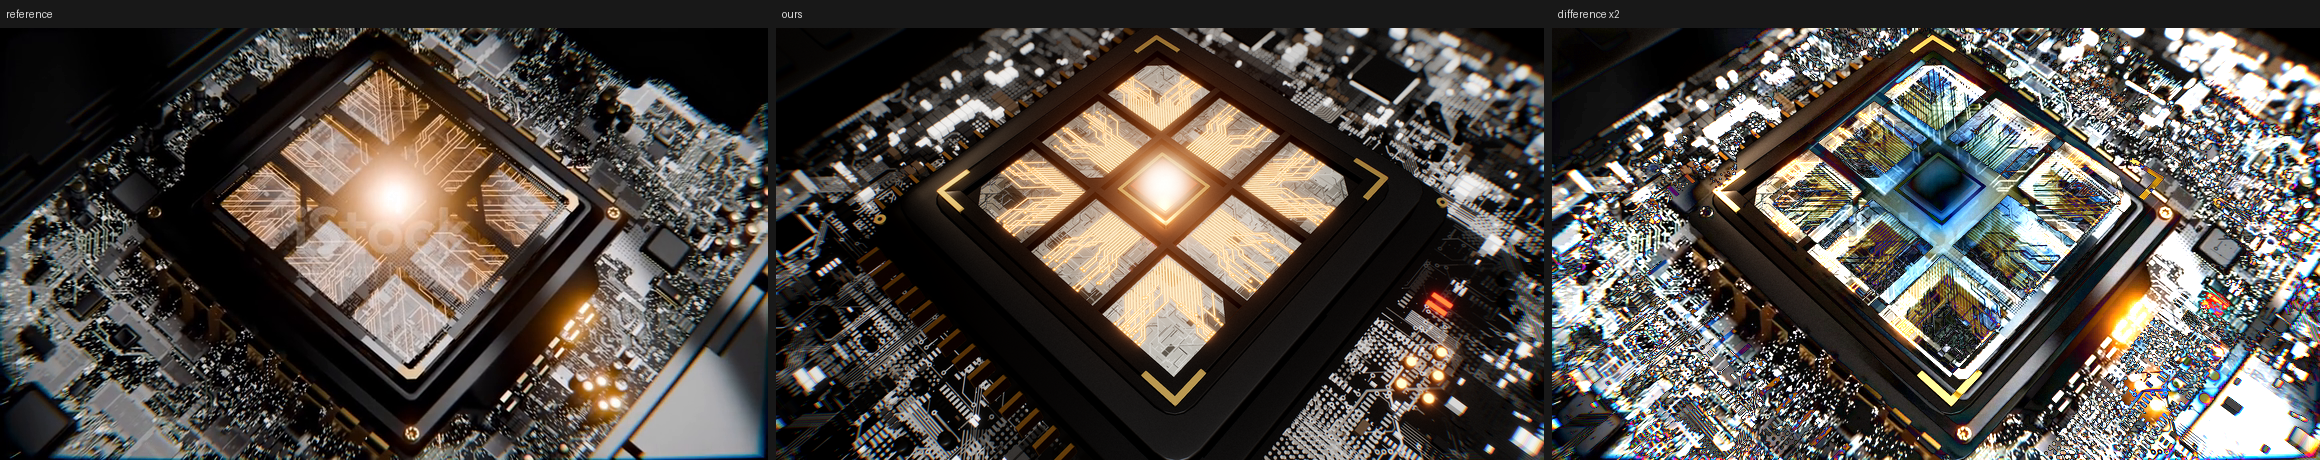
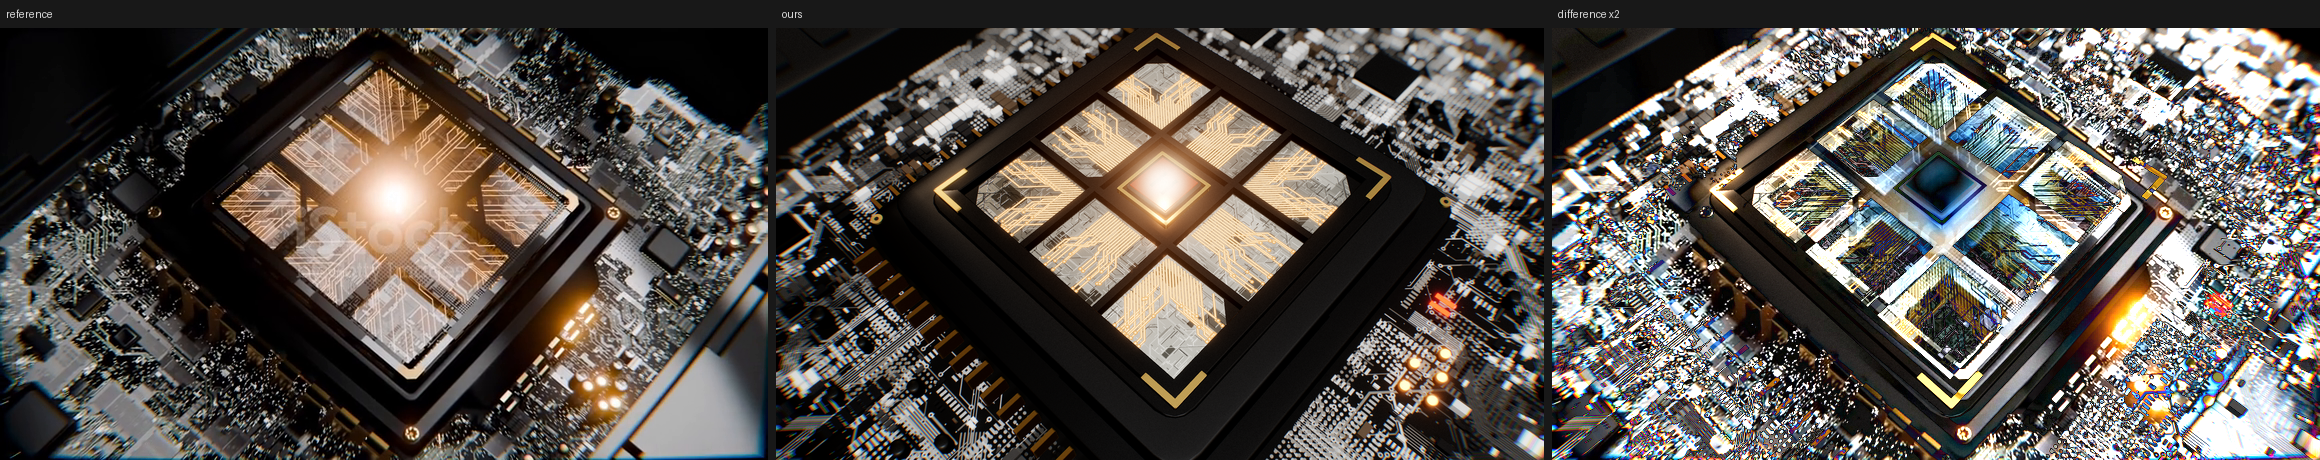
chip-ignite: soft flare halo, warmer lit state, exposure curve, framing
Claude-Session: https://claude.ai/code/session_016jjL2AH2HD4rFCQ3eAYRxu

Changed region(s): [[0.3103, 0.0609, 1.0, 1.0]]

diff --git a/chip-ignite/src/scene/world.ts b/chip-ignite/src/scene/world.ts
@@ -311,9 +311,9 @@ const makeFlareMaterial = () =>
       void main() {
         float r = length(vUv);
         float edge = 1.0 - smoothstep(0.6, 1.0, r);
-        float core = exp(-r * r * 130.0) * uCoreMix;
-        float mid = exp(-r * r * 26.0) * 0.2 * (0.35 + 0.65 * uCoreMix);
-        float halo = 0.06 / (1.0 + r * r * 10.0);
+        float core = exp(-r * r * 70.0) * uCoreMix;
+        float mid = exp(-r * r * 12.0) * 0.32 * (0.35 + 0.65 * uCoreMix);
+        float halo = 0.1 / (1.0 + r * r * 8.0);
         vec3 c = uCore * core + mix(uHalo, uCore, 0.3) * mid + uHalo * halo;
         gl_FragColor = vec4(c * uIntensity * edge, 1.0);
       }
@@ -464,7 +464,7 @@ export const createWorld = (gl: THREE.WebGLRenderer, move: CameraMove): World =>
         bumpScale: 0.8,
         metalness: 1,
         roughness: rng.range(0.18, 0.3),
-        envMapIntensity: 2.0,
+        envMapIntensity: 1.6,
       });
       tileMats.push(m);
       const mesh = new THREE.Mesh(g, m);
@@ -796,7 +796,7 @@ export const createWorld = (gl: THREE.WebGLRenderer, move: CameraMove): World =>
     chipTopMat.color.setScalar(0.85 * (1 - 0.95 * glow) + 0.01);
     flareMat.uniforms.uIntensity.value =
       flareAmt * ML.flareIntensity * (0.8 + 0.2 * build) + glow * (1 - burst) * 0.8;
-    flareMat.uniforms.uCoreMix.value = burst * (0.3 + 0.7 * build);
+    flareMat.uniforms.uCoreMix.value = burst * (0.6 + 0.4 * build);
     // the flare is a camera-facing card whose size is tied to the frame height
     const flarePos = chip.position;
     const dCam = camera.position.distanceTo(flarePos);

diff --git a/chip-ignite/src/config.ts b/chip-ignite/src/config.ts
@@ -16,21 +16,21 @@ export const DURATION_IN_FRAMES = 408;
 /* ---- colours ------------------------------------------------------------- */
 export const PALETTE = {
   /** glowing lines after the chip ignites */
-  glow: "#ffac64",
-  glowHot: "#ffdca8",
+  glow: "#ffa050",
+  glowHot: "#ffd0a0",
   /** the small chip when it starts to glow */
   chipGlow: "#ff3a00",
   /** the flare in the centre */
   flareCore: "#fff1dc",
   flareHalo: "#ffb070",
   /** light the ignited chip throws onto the package */
-  ignitionLight: "#ffb478",
+  ignitionLight: "#ffa050",
   gold: "#a08652",
   bronze: "#6a5228",
   silver: "#dcdcda",
   led: "#ff9a3a",
   /** pale gold of the lines that spread over the board */
-  boardGlow: "#ffc070",
+  boardGlow: "#ffb264",
   ledRed: "#ff2a12",
 };
 
@@ -78,8 +78,8 @@ export interface CameraMove {
 /** Version 1 - the reference move: slow orbit while craning up and back. */
 export const CAMERA_V1: CameraMove = {
   azimuth: [[0, 33], [13.6, 49]],
-  elevation: [[0, 38], [6.8, 53], [13.6, 72]],
-  distance: [[0, 29], [6.8, 25.5], [13.6, 27.5]],
+  elevation: [[0, 38], [6.8, 58], [13.6, 72]],
+  distance: [[0, 29], [6.8, 28.5], [13.6, 34]],
   roll: [[0, 0], [13.6, 0]],
   targetX: [[0, -0.5], [6.8, 1.6], [13.6, 0.4]],
   targetY: [[0, 1.0], [6.8, -2.0], [13.6, -0.4]],

diff --git a/chip-ignite/src/look.ts b/chip-ignite/src/look.ts
@@ -21,7 +21,7 @@ export const LOOK: Look = {
     haloLevels: 8,
   },
   dof: { enabled: true, bokehScale: 5.0, focusRange: 19 },
-  fringe: { amount: 0.012, power: 1.6 },
+  fringe: { amount: 0.018, power: 1.6 },
   vignette: { strength: 0.3, inner: 0.34, outer: 1.35, center: [0.64, 0.4], aspect: 1 },
   grade: {
     contrast: 1.1,
@@ -41,7 +41,7 @@ export const LIGHTS = {
   fill: { color: "#ffe2c4", intensity: 0.3, pos: [-30, 10, 30] as [number, number, number] },
   envIntensity: 1.0,
   /** peak strength of the orange light the ignited chip throws */
-  ignition: 30,
+  ignition: 44,
 };
 
 export const ENV_AMBIENT = "#0a0a0a";
@@ -60,7 +60,7 @@ export const ENV_PANELS: EnvPanel[] = [
 export const MATERIAL_LOOK = {
   /** brightness multiplier of the silver copper pattern on the board */
   boardSilver: "#a9a9a7",
-  tileSilver: "#f2f2ee",
+  tileSilver: "#cfcfcb",
   /** HDR brightness of the glowing lines (1 = white point before bloom) */
   lineIntensity: 1.6,
   boardLineIntensity: 1.2,

diff --git a/qc/temporal.py b/qc/temporal.py
@@ -1,0 +1,65 @@
+#!/usr/bin/env python3
+"""temporal.py - do light, haze and grain stay steady from frame to frame?
+
+Usage: python3 qc/temporal.py video.mp4 [--skip 60-95] [--json out.json]
+
+Per frame (at 480x270): median and p95 luminance (light), p95-p5 contrast of
+the outer frame (haze), and the high-pass noise level of the flattest lit
+blocks (grain). Reports the largest frame-to-frame step of each, ignoring the
+frames given with --skip (an intended flash or whip).
+"""
+import argparse
+import json
+import subprocess
+
+import numpy as np
+
+ap = argparse.ArgumentParser()
+ap.add_argument("video")
+ap.add_argument("--skip")
+ap.add_argument("--json")
+a = ap.parse_args()
+W, H = 480, 270
+raw = subprocess.run(["ffmpeg", "-v", "error", "-i", a.video, "-vf", f"scale={W}:{H}:flags=area",
+                      "-pix_fmt", "gray", "-f", "rawvideo", "-"], capture_output=True).stdout
+fr = np.frombuffer(raw, dtype=np.uint8).reshape(-1, H, W).astype(np.float32) / 255
+n = len(fr)
+p50 = np.percentile(fr.reshape(n, -1), 50, axis=1)
+p95 = np.percentile(fr.reshape(n, -1), 95, axis=1)
+edge = np.ones((H, W), bool)
+edge[H // 4:3 * H // 4, W // 4:3 * W // 4] = False
+haze = np.array([np.percentile(f[edge], 95) - np.percentile(f[edge], 5) for f in fr])
+# grain: full-resolution luma of a few frames is costly, so use the 480x270
+# high-pass (4-neighbour) in the 10% flattest lit 16x16 blocks of each frame
+grain = []
+for f in fr:
+    hp = f[1:-1, 1:-1] - 0.25 * (f[:-2, 1:-1] + f[2:, 1:-1] + f[1:-1, :-2] + f[1:-1, 2:])
+    vals = []
+    for y in range(0, H - 18, 16):
+        for x in range(0, W - 18, 16):
+            b = f[y + 1:y + 17, x + 1:x + 17]
+            if 0.02 < b.mean() < 0.9:
+                vals.append(hp[y:y + 16, x:x + 16].std())
+    vals.sort()
+    grain.append(np.mean(vals[:max(1, len(vals) // 10)]) * 255 if vals else 0.0)
+grain = np.array(grain)
+keep = np.ones(n - 1, bool)
+if a.skip:
+    lo, hi = (int(v) for v in a.skip.split("-"))
+    keep[max(0, lo - 1):hi] = False
+
+
+def step(x):
+    d = np.abs(np.diff(x))
+    d[~keep] = 0
+    return float(d.max()), int(d.argmax() + 1)
+
+
+res = {"file": a.video, "frames": n, "skipped": a.skip}
+for name, x in (("median_luminance", p50), ("p95_luminance", p95), ("edge_contrast_haze", haze), ("grain_level_8bit", grain)):
+    s, at = step(x)
+    res[name] = {"min": round(float(x.min()), 4), "max": round(float(x.max()), 4),
+                 "max_step": round(s, 4), "at_frame": at}
+    print(f"{name:22} range {x.min():.4f}-{x.max():.4f}   largest frame-to-frame step {s:.4f} at frame {at}")
+if a.json:
+    json.dump(res, open(a.json, "w"), indent=1)

diff --git a/qc/report-parts/5-subagents.md b/qc/report-parts/5-subagents.md
@@ -1,0 +1,47 @@
+## 6. Independent reviews and what was fixed
+
+Every review was done by a fresh sub-agent that saw only the image pairs or frame sets named in the brief, with the brief's instruction text.
+
+### Look checks on the three look-dev stills (step 4A-5)
+
+**ai-chip-reveal**
+
+| Round | Main notes | Fixed |
+|---|---|---|
+| 1 | Attempt too sharp, no depth of field; pure blacks with no haze; glowing lines hard, uniform "emissive strips" with tight halos; capacitors flat white discs; orange too saturated and yellow; wide shot board too bright with clipped white blocks; no grain | Depth of field added, stronger at the angled start; two-layer bloom (tight core, wide halo) with configurable sizes; brightness variation along each line; dome-topped metal cans; palette shifted to deeper amber; white parts and key light held back in the wide shot; film grain pass |
+| 2 | Capacitors and socket frame matte black with only a rim crescent, no reflections; traces still too bright and uniform; "AI" white-hot; slot bars too bright; white blocks dominate the wide shot; background flatter | Found and fixed a real defect: the lathe profiles of the cans and pin rings were inside-out, so they shaded black. Trace and letter intensity lowered; separate non-reflective material for the slot bars; backdrop pool retuned; wide-shot exposure and white level lowered |
+| 3 | Reference has orange light bouncing onto black plastic and pooling between the slots; pin grid too bright and yellow so the "AI" does not dominate; needs slightly lifted warm shadows; whites harder-edged than the reference | Coloured spill lights raised and extra pool lights added over the lower board; pins darkened to copper on a brown chip face; extruded metal letters; bloom core widened. (Remaining: the reference's milky haze in the close-up is stronger than ours.) |
+
+**chip-ignite**
+
+| Round | Main notes | Fixed |
+|---|---|---|
+| 1 | Attempt warmer overall (cream traces, saturated copper) where the reference is neutral-cool silver; light flat and frontal instead of a hard key from the upper right; tiles too contrasty; glow at the centre pink with a hard edge; gold accents too orange; hard black void instead of a soft vignette | Light, environment and board texture made neutral; key moved and hardened; tile texture softened; chip glow recoloured deep orange-red; gold and bronze muted; vignette recentred and softened; flare rebuilt with a small core and wide halo |
+| 2 | Tiles too dim and flat (reference bright silver with raking gradient); board too dark with no mid-tones; fringing only at the corners; glow too saturated at the peak, veil missing; LEDs too small and orange | Tiles brightened and made more reflective; board mid-tones lifted; fringe widened; glow and halo made paler and wider; LEDs enlarged; grain raised |
+| 3 | Board whites clip to blocky white; blacks on the housing milky; attempt now softer than the reference with too much fringe; bloom too large and cream; LEDs over-bloomed | Board highlight level lowered; glossier, deeper blacks on the package; depth of field and fringe reduced; bloom tightened and made more orange; LEDs reduced. (Remaining: the reference's fine "glitter" speculars are finer than our texture.) |
+
+### Visual match of the videos (step 8B)
+
+**01-V1-ai-chip-reveal**
+
+| Round | Main notes | Fixed |
+|---|---|---|
+| 1 | The reference board is still assembling at 5.0 s (parts floating off the left edge and above) and keeps changing until the end, the attempt is a finished static rectangle; socket should be grey metal; pins flat orange; heavy grainy bokeh discs in the opening; board reads flat and top-down | Added the assembly beat: 15 groups of parts lift off during the spin and settle on their own schedules; board tilt in the wide shot; grey metal socket frame; extruded letters; lower-half layout changed to long parallel slots with a heat sink; cans clustered. Also found and fixed that shadow maps went stale after the first frame |
+| 2 | Wide shot evenly lit with every trace the same orange, reference has only some traces glowing; assembly finishes too early; board too tilted; pin field should be dense rings with a small trace area; opening too tight and too blurred; chip too large and legible in the wide shot | Per-line brightness selection in the wide shot (a few bright, most dim); assembly windows moved later and offsets enlarged; tilt reduced; pin ring widened; opening reframed with less blur; letters dimmed and the chip face lit as one copper square in the wide shot |
+| 3 | Reference dims towards the end, attempt stays bright; board a little large at 5.0 s; socket frame should read as metal; pins large and saturated; whites pure and bright | End fade-down of traces and pool lights; camera further back from 3.7 s; frame lightened then balanced against the look measures; pins smaller and darker; white level lowered |
+| final check | Size, position, timing and empty space "closely matched" (board 36% of frame width at 5.0 s and 29% at 9.8 s in both). Still different: socket frame reads matte black rather than brushed silver; deeper blacks, higher contrast and cleaner edges than the hazy reference; traces thicker, brighter and more saturated, covering more of the board; pin field a more uniform orange; board silhouette tidier at 5.0 s; "AI" legible in the wide shot; an orange bokeh orb right of the chip at 0.3 s that the reference lacks. Verdict: "reads as the same piece of motion design in composition and timing, but as a cleaner, more saturated, less photoreal rendition" | no further changes (three rounds used) |
+
+**03-V1-chip-ignite**
+
+| Round | Main notes | Fixed |
+|---|---|---|
+| 1 | Camera move far weaker than the reference (which goes from low oblique to near top-down, the chip filling the frame height); final frame lacks energy (reference tiles nearly blown out, long gold traces across the board); large empty matte panels; package a thin flat slab without the gold fin rows; flat centre emblem; tiles dim with coarse patterns; board made of large blocky rectangles | Camera path rebuilt (elevation 38 to 72 degrees, push in at mid-film); glow, tile light and flare now keep building to the end; shrouds smaller, darker and ridged; package made taller in three steps with rows of upright gold fins and solid corner brackets; raised seat rings; finer tile and board textures with glitter specks |
+| 2 | Board now too white and busy; final frame flooded with long saturated orange lines to the frame edges (reference: sparse, short, paler gold); flare already a hard white square at 6.8 s with no build-up; chip smaller in frame at the end; red indicator bars missing | Board brightness and pour count reduced; board lines halved, shortened and recoloured pale gold; flare core now grows from 30% to full over the second half; end framing closer; two red bars added next to five LEDs; three more tiles given cut corners |
+| 3 | Timing and the indicator lights match and "nothing from the reference is missing outright". Lit state too neutral (reference turns amber, tiles tinted peach); flare a hard-edged white-pink square with almost no halo (reference: soft bloom with a wide orange halo, 13% of frame width growing to 20%); chip too large in frame at 6.8 s and 13.3 s (72-74% of width against 59%) and still oblique at 6.8 s; tiles too bright before ignition; less fringing; flat centre emblem; coarser board detail. Verdict: "clearly reads as the same piece of motion design, but as a cooler, tighter, harder-edged version lacking the reference's warm bloom" | Flare rebuilt with a larger soft core, a mid glow and a wide amber halo that hides the chip face; glow, board-line and ignition-light colours moved back towards orange and the ignition light raised so the tiles pick up a peach tint; camera further back at mid-film and at the end and steeper at 6.8 s; tiles dimmed before ignition; fringe increased. Checked on stills against the reference (this was the third and last round, so no further review). Not changed: centre emblem and board detail scale |
+
+**Version 2 checks**
+
+| Video | Is the change clearly visible? | Everything else the same concept and quality? | Notes |
+|---|---|---|---|
+| 02-V2-ai-chip-reveal (palette) | __A2_VISIBLE__ | __A2_SAME__ | __A2_NOTES__ |
+| 04-V2-chip-ignite (camera movement) | __B2_VISIBLE__ | __B2_SAME__ | __B2_NOTES__ |

diff --git a/qc/report-parts/1-analysis.md b/qc/report-parts/1-analysis.md
@@ -1,0 +1,44 @@
+## 1. Reference analysis (step 2)
+
+### Reference A - `ai-chip-reveal`
+
+| | |
+|---|---|
+| Source | `0bb38d88-istockphoto-2094174172-640_adpp_is.mp4`, 768x432, H.264, 24 fps, 241 frames, no audio |
+| Duration | **10.041667 s** -> round(10.041667 x 30) = **301 frames** at 30 fps = 10.0333 s (0.0083 s shorter, a quarter of a frame; 24 fps is not a multiple of 30) |
+| 2D or 3D | **3D.** The camera orbits a socket with real parallax between the pin field, the socket frame, capacitors and slot bars, the lens has shallow depth of field, and the board then spins a full turn in perspective. None of that survives a 2D treatment. |
+| Loops? | **No.** It starts on a close-up and ends on a wide shot. |
+| Technology | three.js through `@remotion/three` (React Three Fiber canvas), WebGL 2 via ANGLE. Instanced meshes for the roughly 1,500 parts, a seeded canvas texture for the board, shader ribbons for the glowing traces, pmndrs `postprocessing` for depth of field and bloom, and a custom final pass (ACES tone mapping, grade, grain, dither). The whip uses real motion blur from 6 sub-frame renders. |
+| Version 2 | **Colour palette** (amber -> electric cyan). The camera whip and spin are the identity of this piece, so they stay; the amber glow is a single hue family against black and silver, so swapping it reads instantly and changes nothing else. |
+
+**What it shows**
+
+- 0.0-2.1 s: close-up of a pin-grid processor in a socket, glowing "AI" letters with fine circuit lines fanning out. The camera starts about 35-40 degrees off-axis and settles square-on. Chrome capacitors and over-exposed white blocks sit on the left, black slot bars on the right, thick amber traces run under everything.
+- 2.1-3.4 s: whip pull-back. The frame blows out to white for about 5 frames (peak near 2.45 s), the board spins a full turn, and its back catches the light once (a second, smaller brightness peak near 2.9 s).
+- 3.4-10.0 s: the whole motherboard floats, small, in a dark grey void with a soft pool of light under it. Parts are still drifting into place (an exploded view that closes), the board keeps turning a few degrees and shrinks slowly, and the glow dims towards the end.
+
+**Colours (sampled)**: blacks `#050203`-`#0b0708`; white blocks `#f0f1f4`; amber glow `#b86a1f` with hot parts `#f0a835`, deep amber `#6c3a18`; wide shot backdrop from `#030303` (corner) to `#1a1a1a` (pool under the board); silver parts `#9b999b`-`#cdc9c4`.
+
+**Light, atmosphere, texture**: soft, cool-white studio light from the upper left gives broad gradient reflections on chrome and brushed metal; the only coloured light is the amber of the traces and letters, which spills onto nearby black plastic. Glows are tight (falling to half within about 5% of the frame height in the wide shot) with a faint wide halo. The close-up is soft with shallow focus (foreground capacitors and the right-hand bars are blurred); the wide shot is clean and sharp with a smooth dark gradient and no visible grain (measured 0.01-0.06 levels), while the close-up carries light noise (about 1 level). No fog, dust or rays. Corners in the wide shot are about a fifth of the centre brightness.
+
+### Reference B - `chip-ignite`
+
+| | |
+|---|---|
+| Source | `162cc20b-istockphoto-2052605052-640_adpp_is.mp4`, 768x432, H.264, 25 fps, 340 frames |
+| Duration | **13.600 s** -> 13.6 x 30 = **408 frames** exactly (difference 0) |
+| Audio | The file has an AAC track, but it is digital silence (mean and peak -91 dB) and no audio was provided, so the videos have **no audio stream**. |
+| 2D or 3D | **3D.** A continuous camera move (orbit, crane up, slight push) over a board covered in parts of different heights, with a chip descending in depth, shadows, and lens blur front and back. |
+| Loops? | **No.** It starts unlit and ends fully lit. |
+| Technology | three.js through `@remotion/three`, WebGL 2 via ANGLE. A 4096 px seeded canvas texture (three detail scales) for the board, a second for the etched tiles, about 9,000 instanced parts, reveal-masked shader ribbons for the spreading light, an additive flare card, pmndrs `postprocessing` for depth of field and bloom, and the custom final pass (radial colour fringe, vignette, ACES, grade, grain, dither). |
+| Version 2 | **Camera movement.** The reference move is slow and gentle over a scene that is detailed in every direction, so a new path (start high and square-on, spiral down the opposite way, push in low) shows the same design freshly. A palette change would have weakened the warm-on-neutral contrast that the ignition depends on. |
+
+**What it shows**
+
+- 0.0-5.7 s: a large square package with a 3x3 grid of etched silver tiles sits on a dense black-and-silver board. A small chip descends into the empty centre cell, turning slightly, and seats at about 5.7 s. Four small amber indicator lights (and two red bars) come on at the lower right from about 3.2 s.
+- 6.0-6.9 s: the chip glows orange-red, then bursts into a white-hot flare.
+- 6.7-13.6 s: amber light runs out along circuit lines on the tiles (about 1.7 s), then on across the board in long straight lines; the flare and the lit tiles keep growing brighter. The camera rises from a low three-quarter view to nearly top-down while orbiting about 15 degrees.
+
+**Colours (sampled)**: black `#010101`; board silver `#a0a29f`-`#c1c0bd`; tiles around `#848484`; amber `#a4784b` to `#dda266`; bronze pins `#664a2c`; about 1% blue-cyan (`#356887`) from chromatic fringing at edges.
+
+**Light, atmosphere, texture**: one hard, slightly cool key from the upper right and behind makes the fine copper pattern sparkle and throws short shadows; large areas (shrouds, package) stay pure black, so the image is very high in contrast (about 40% of pixels below 5%, yet p95 near 0.7). Depth of field blurs the foreground strip and the far background; frame edges show cyan/orange fringing. After ignition the warm glow is local to the package with a small white core and a wide soft amber halo. Texture is extremely dense (Laplacian variance 2,300-3,700, five times reference A) with light noise.

diff --git a/qc/report-parts/6-unmatched.md b/qc/report-parts/6-unmatched.md
@@ -1,0 +1,11 @@
+## 9. What could not be matched, and why
+
+- **Exact geometry.** Both scenes are original procedural re-creations, as the brief requires (no stock footage, no models). Individual parts, the circuit routing and the tile patterns follow the same design language but are not copies, so a frame-by-frame overlay differs everywhere at the pixel level (the "difference" panels in the look-dev sheets show this).
+- **Look targets (step 4A, +-10%).** The main exposure measures track the references through each film, but not every measure is inside +-10% at every sampled moment; the look tables above mark each miss. The recurring ones:
+  - *Reference A, frontal close-up (1.5 s)*: our mid-tones are brighter (median 0.18 against 0.09) and the frame holds less saturated amber, because the reference fills more of the frame with out-of-focus glowing traces than our layout does. Detail is also higher: our pin field and traces are crisper than the 432p reference.
+  - *Reference A, wide shot*: corners are a little brighter relative to the centre than the reference (ratio about 0.22-0.28 against 0.19).
+  - *Reference B*: after ignition our highlights are hotter (p95 about 0.83 against 0.72) and saturation slightly higher; the corner-to-centre ratio differs through the film because our dark shrouds sit differently in frame; shadow and mid-tone hue is redder by 10-25 degrees in the first half (the hue signal there is weak: mean saturation about 0.2).
+- **Softness of the references.** Both references are 768x432 and visibly compressed; part of their softness, haze and noise is the encode. The re-creations were matched at that scale but are cleaner at 1080p and 4K by design.
+- **Assembly detail in A.** The reference shows dozens of individual parts flying into place; ours moves 15 groups of parts. The beat and its timing are there, the per-part choreography is simpler.
+- **Tile and package modelling in B.** The reference tiles have several outlines and stepped channels between them, and the package has more tiers; ours uses one tile shape with cut corners and a three-step package.
+- **Visual-match rounds.** Version 1 of each film went through three independent review rounds, the maximum set in the brief; the last round's remaining notes are listed in section 6 with what was and was not changed.
